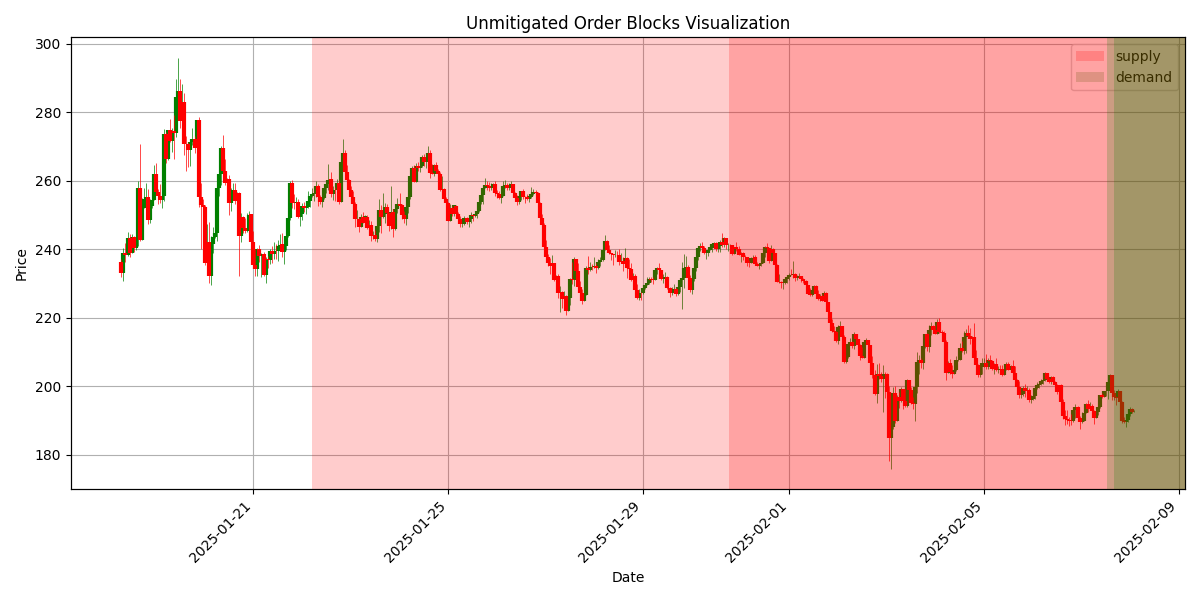
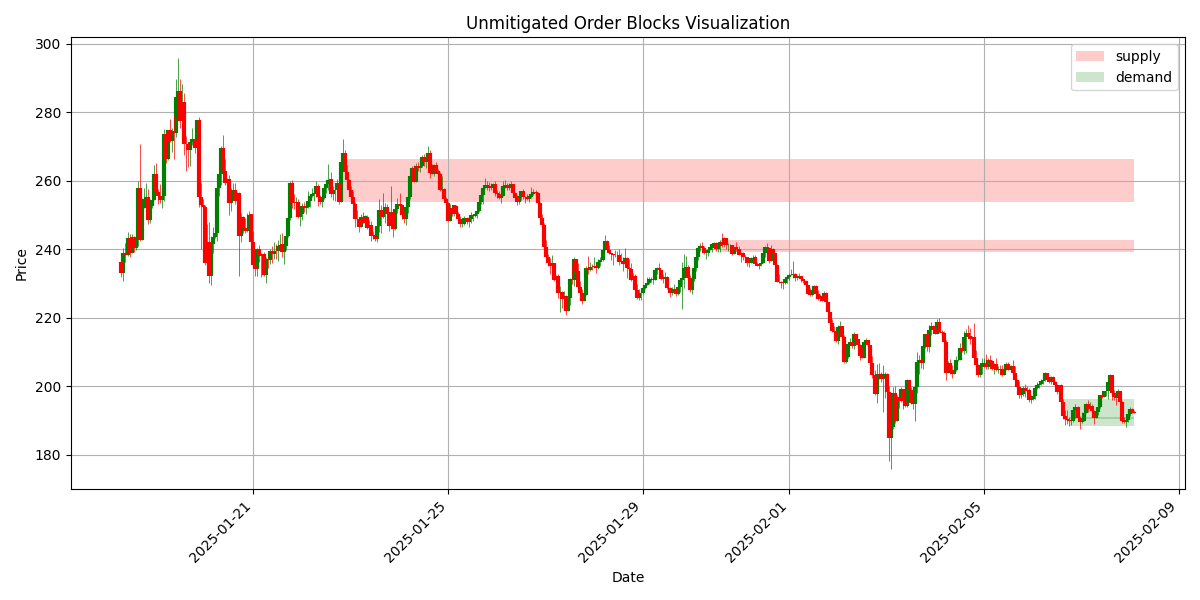
safe point - working

diff --git a/strategy_orderblock/visualization.py b/strategy_orderblock/visualization.py
@@ -18,7 +18,7 @@ def visualize_order_blocks(df, order_blocks, filename="order_blocks.png", mitiga
 
     # Create the figure and axes
     fig, ax1 = plt.subplots(figsize=(12, 6))
-    ax2 = ax1.twiny()  # Create a twin Axes sharing the y-axis
+    #ax2 = ax1.twiny()  # Create a twin Axes sharing the y-axis
 
     # Plot candlesticks on ax1
     width = 0.8 / len(df)  # Width of the candlesticks
@@ -32,7 +32,7 @@ def visualize_order_blocks(df, order_blocks, filename="order_blocks.png", mitiga
     # Create a sequence of numbers for the x-axis
     x = np.arange(len(df))
 
-    # Plot order block zones on ax2
+    # Plot order block zones on ax1
     for ob in order_blocks:
         mitigated = is_order_block_mitigated(ob, df, len(df) - 1, mitigation_type)
         if not mitigated:
@@ -40,27 +40,27 @@ def visualize_order_blocks(df, order_blocks, filename="order_blocks.png", mitiga
                 color = 'green'
                 # Debugging: Print order block details
                 print(f"Plotting BULLISH OB at index {ob.index}, bar_low={ob.bar_low}, bar_high={ob.bar_high}")
-                ax2.axvspan(x[ob.index], x[-1], facecolor=color, alpha=0.2, label='demand')
+                ax1.fill_betweenx([ob.bar_low, ob.bar_high], df['timestamp'][ob.index], df['timestamp'].iloc[-1], facecolor=color, alpha=0.2, label='demand')
 
             elif ob.bias == BEARISH:
                 color = 'red'
                 # Debugging: Print order block details
                 print(f"Plotting BEARISH OB at index {ob.index}, bar_low={ob.bar_low}, bar_high={ob.bar_high}")
-                ax2.axvspan(x[ob.index], x[-1], facecolor=color, alpha=0.2, label='supply')
+                ax1.fill_betweenx([ob.bar_low, ob.bar_high], df['timestamp'][ob.index], df['timestamp'].iloc[-1],  facecolor=color, alpha=0.2, label='supply')
 
     # Format the x-axis of ax1 to show dates
     ax1.xaxis.set_major_locator(mdates.AutoDateLocator())
     ax1.xaxis.set_major_formatter(mdates.DateFormatter('%Y-%m-%d'))
     plt.setp(ax1.get_xticklabels(), rotation=45, ha="right")
 
-    # Set the x-axis limits of ax2 to the range of the data
-    ax2.set_xlim(x[0], x[-1])
+    ## Set the x-axis limits of ax2 to the range of the data
+    #ax2.set_xlim(x[0], x[-1])
 
-    # Hide the x-axis labels and ticks on ax2
-    ax2.xaxis.set_visible(False)
+    ## Hide the x-axis labels and ticks on ax2
+    #ax2.xaxis.set_visible(False)
 
-    # Align the y-axis limits of ax1 and ax2
-    ax2.set_ylim(ax1.get_ylim())
+    ## Align the y-axis limits of ax1 and ax2
+    #ax2.set_ylim(ax1.get_ylim())
 
     # Add labels and title
     ax1.set_xlabel('Date')
@@ -69,9 +69,9 @@ def visualize_order_blocks(df, order_blocks, filename="order_blocks.png", mitiga
 
     # Add legend (only show one label per type)
     handles1, labels1 = ax1.get_legend_handles_labels()
-    handles2, labels2 = ax2.get_legend_handles_labels()
-    handles = handles1 + handles2
-    labels = labels1 + labels2
+    #handles2, labels2 = ax2.get_legend_handles_labels()
+    handles = handles1 #+ handles2
+    labels = labels1 #+ labels2
     by_label = dict(zip(labels, handles))
     ax1.legend(by_label.values(), by_label.keys())
 
